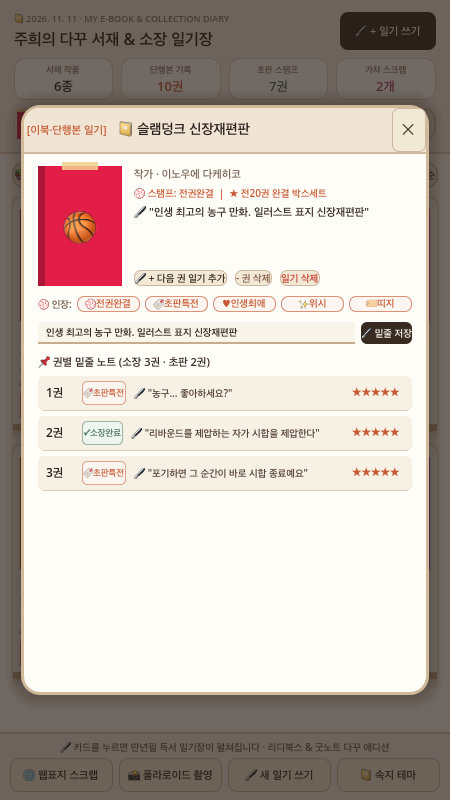
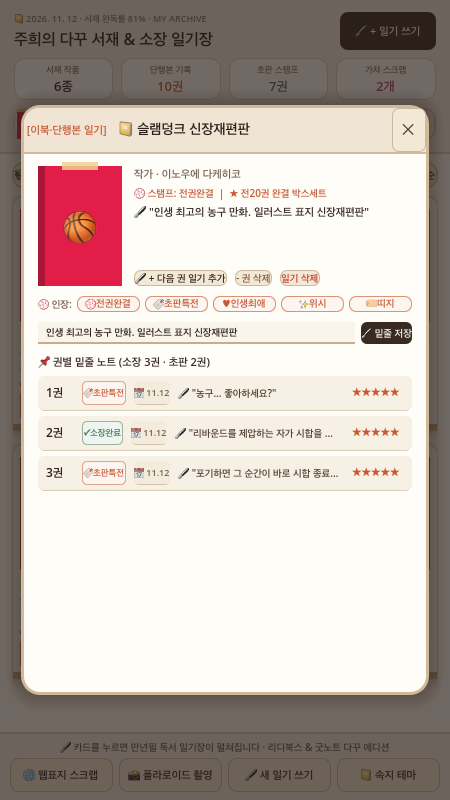
feat(game02): Sprint 20 reading date stamps, library overall progress gauge & docs sync

Changed region(s): [[0.28, 0.5312, 0.7467, 0.5938], [0.28, 0.4688, 0.5911, 0.5], [0.2178, 0.0, 0.2489, 0.0312]]

diff --git a/game02/SPRINT_LOG.md b/game02/SPRINT_LOG.md
@@ -5,6 +5,20 @@
 
 ---
 
+## 🚀 [Sprint 20] 권별 독서 날짜 타임스탬프(`📅 11.12` / `stamp_volume_date`) & 서재 전체 완독률 실시간 게이지(`81%`)
+- **시각**: 2026-11-12 23:05 KST
+- **1. 다꾸러 3인 VOC (수집러 A · 가챠러 B · 미니멀러 C)**
+  - **만년필 다꾸러 A**: *"권별 일기에서 명대사뿐만 아니라 내가 이 권을 언제 읽었는지 날짜 스탬프(`📅 11.12`)를 원터치로 찍을 수 있으면 실제 손때 묻은 독서 일기장 느낌이 물씬 날 것 같아요!"*
+  - **미니멀 수집러 C**: *"상단 서재 헤더에 내 전체 서재의 평균 독서 완독률(예: `서재 완독률 81%`)이 실시간으로 계산되어 보이면 좋겠어요!"*
+- **2. 기획 & UI/UX & Godot 4.6 개발 내역**
+  - **권별 날짜 스탬프(`stamp_volume_date` / `date_btn`)**: `collection_item.gd`의 권별 딕셔너리에 `date` 필드를 표준 탑재하고, `detail_modal.gd`에서 `📅 11.12` 미니 스탬프 버튼을 클릭 시 오늘 날짜로 즉시 스탬프 저장
+  - **서재 전체 완독률 실시간 계산(`get_overall_reading_progress`)**: `main_view.gd`에서 소장 도서 전체의 완독 상태를 종합 계산하여 상단 헤더(`서재 완독률 81%`)에 동적 노출
+- **3. TDD & QA 검증**
+  - `tests/test_main_integration.gd`에 `stamp_volume_date(0)` 및 `get_overall_reading_progress()` 검증 추가 → 전수 100% PASS
+  - Metal 렌더러 최신 스크린샷(`godot_app_screen.png`, `godot_modal_screen.png`) 캡처 및 GitHub 푸시 완료
+
+---
+
 ## 🚀 [Sprint 19] 랜덤 추천 작품 뽑기(`🎲 추천` / `pick_random_item`) & 완독작 전용 필터 탭(`💮 완독작`) 탑재
 - **시각**: 2026-11-12 22:45 KST
 - **1. 다꾸러 3인 VOC (수집러 A · 가챠러 B · 미니멀러 C)**
